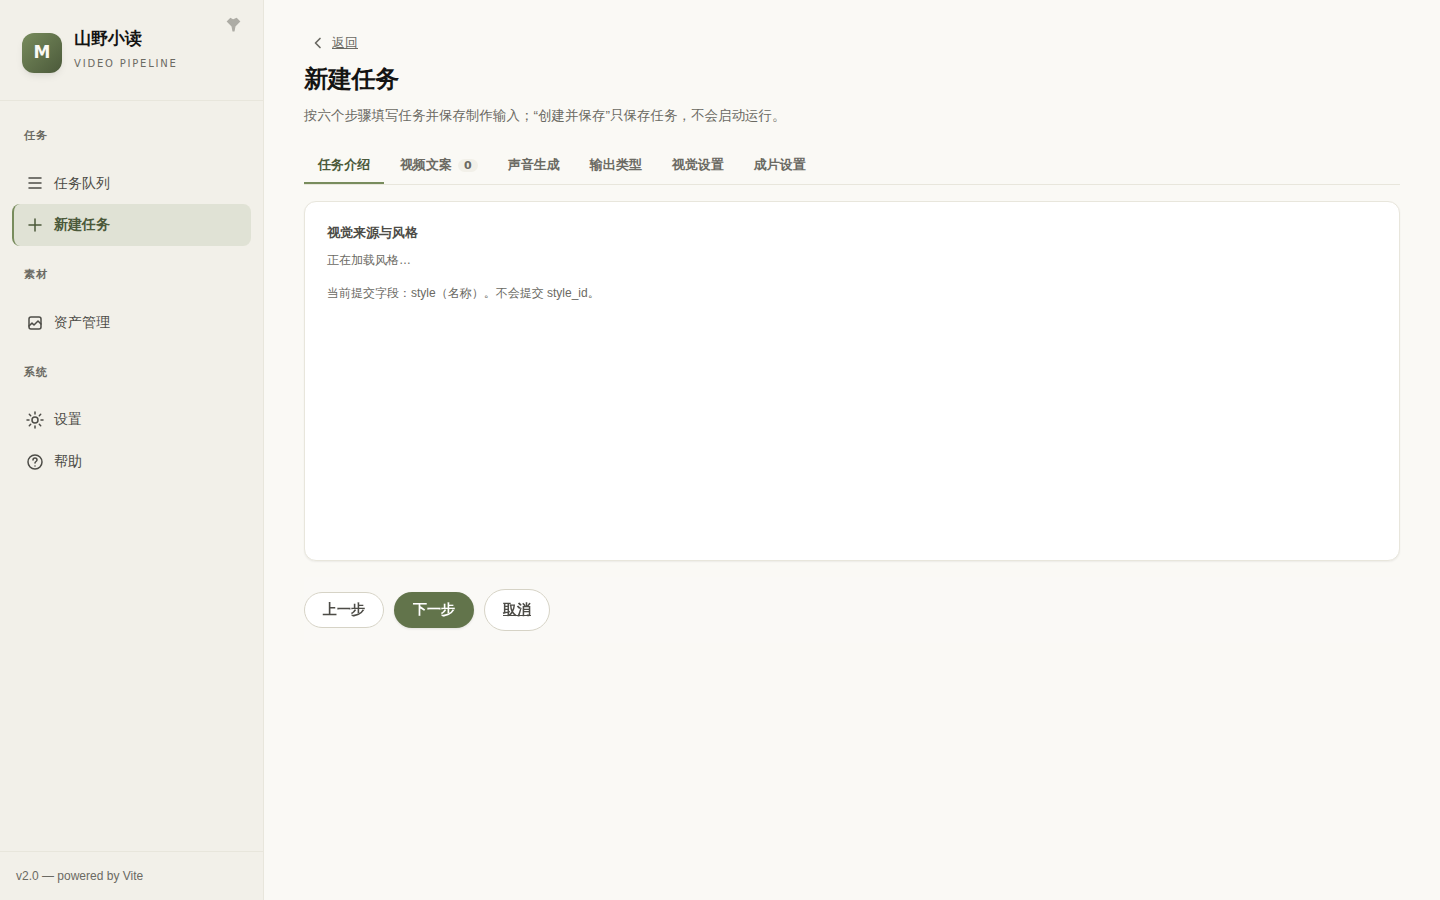
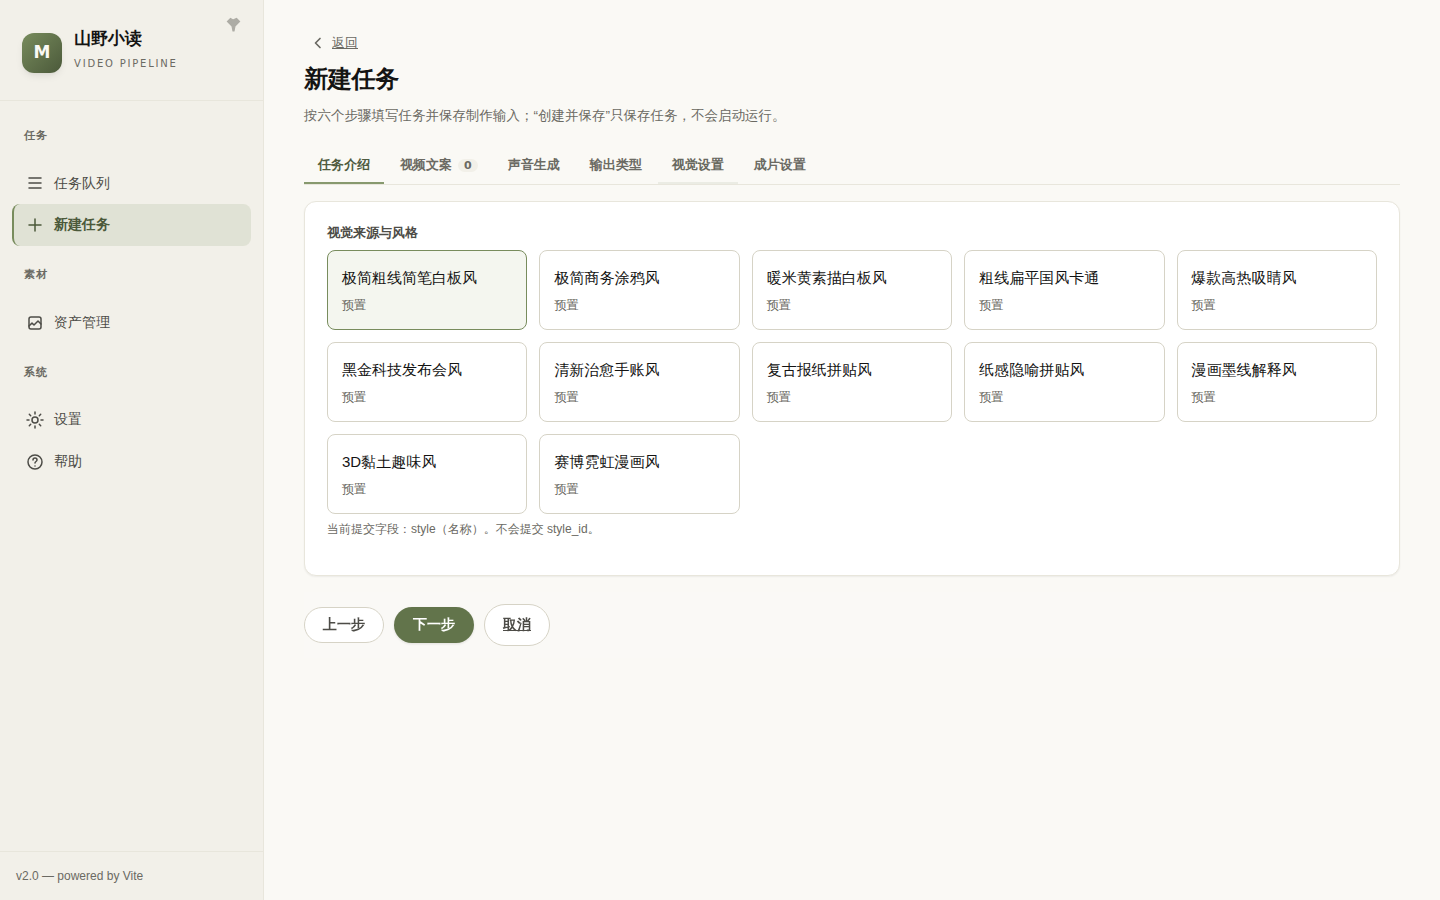
fix(web): wait for create task asset evidence states

diff --git a/web-v2/src/pages/CreateTaskPage.tsx b/web-v2/src/pages/CreateTaskPage.tsx
@@ -28,7 +28,7 @@ export function CreateTaskPage() {
   const [errors, setErrors] = useState<Record<string, string>>({}); const [submitting, setSubmitting] = useState(false)
   const [createdTask, setCreatedTask] = useState<{ task_id: string; run_id: string } | null>(null); const [createErr, setCreateErr] = useState<SafeError | null>(null); const [uploadErr, setUploadErr] = useState<SafeError | null>(null)
   const submittingRef = useRef(false); const mountedRef = useRef(true); useEffect(() => () => { mountedRef.current = false }, [])
-  useEffect(() => { fetchStyles({ status: 'active', engine: ENGINE }).then(r => { if (!mountedRef.current) return; const items = Array.isArray(r?.items) ? r.items : []; setStyles(items); setAssets(a => ({ ...a, styles: items.length ? 'success' : 'empty' })) }).catch(() => { if (mountedRef.current) setAssets(a => ({ ...a, styles: 'error' })) }); fetchVoices({ status: 'active' }).then(r => { if (!mountedRef.current) return; const items = Array.isArray(r?.items) ? r.items : []; setVoices(items); setAssets(a => ({ ...a, voices: items.length ? 'success' : 'empty' })) }).catch(() => { if (mountedRef.current) setAssets(a => ({ ...a, voices: 'error' })) }) }, [])
+  useEffect(() => { mountedRef.current = true; fetchStyles({ status: 'active', engine: ENGINE }).then(r => { if (!mountedRef.current) return; const items = Array.isArray(r?.items) ? r.items : []; setStyles(items); setAssets(a => ({ ...a, styles: items.length ? 'success' : 'empty' })) }).catch(() => { if (mountedRef.current) setAssets(a => ({ ...a, styles: 'error' })) }); fetchVoices({ status: 'active' }).then(r => { if (!mountedRef.current) return; const items = Array.isArray(r?.items) ? r.items : []; setVoices(items); setAssets(a => ({ ...a, voices: items.length ? 'success' : 'empty' })) }).catch(() => { if (mountedRef.current) setAssets(a => ({ ...a, voices: 'error' })) }) }, [])
   function validate() { const e: Record<string, string> = {}; if (!title.trim()) e.title = '请输入任务名称'; if (script.trim().length < 10) e.script = '文案不少于 10 字'; const min = integer(minChars), target = integer(targetChars), max = integer(maxChars); if (min === null || target === null || max === null) e.chars = '字数必须为整数'; else if (min < 1 || target < 1 || max > 500 || min > target || target > max) e.chars = '需满足 1 ≤ 最小 ≤ 目标 ≤ 最大 ≤ 500'; if (!referenceFile) e.reference = '首次保存必须上传参考音频文件'; if (penText.length > 12) e.penText = '笔身文字最长 12 字符'; return e }
   function validateTab(key: string) { const e = validate(); const fields = key === 'intro' ? ['title'] : key === 'script' ? ['script', 'chars'] : key === 'voice' ? ['reference'] : key === 'final' ? ['penText'] : []; return Object.fromEntries(fields.filter(k => e[k]).map(k => [k, e[k]])) }
   function goNext() { const e = validateTab(tab); if (Object.keys(e).length) { setErrors(e); return }; setErrors({}); const i = TABS.findIndex(t => t.key === tab); if (i < TABS.length - 1) setTab(TABS[i + 1].key) }

diff --git a/web-v2/tests/capture-evidence-assets.test.ts b/web-v2/tests/capture-evidence-assets.test.ts
@@ -1,0 +1,31 @@
+import { describe, expect, it, vi } from 'vitest'
+import { waitForAssetTerminal } from '../scripts/capture-parity-evidence-helpers.mjs'
+
+function fakePage({ loading = true, cards = 0, empty = false, error = false, reject = false } = {}) {
+  const waitFor = vi.fn(async ({ state }: { state: string }) => {
+    if (reject) throw new Error('Timeout 10ms exceeded')
+    if (state === 'hidden' && loading) return
+  })
+  const text = (value: string) => ({ waitFor, isVisible: vi.fn(async () => value.includes('暂无') ? empty : value.includes('失败') ? error : false) })
+  return { page: { getByText: vi.fn(text), locator: vi.fn(() => ({ count: vi.fn(async () => cards) })) }, waitFor }
+}
+
+describe('create-task asset evidence terminal guard', () => {
+  it('does not proceed while loading text is visible and waits for hidden', async () => {
+    const { page, waitFor } = fakePage({ loading: true, cards: 1 })
+    await expect(waitForAssetTerminal(page, 'voice', 100)).resolves.toMatchObject({ state: 'success' })
+    expect(waitFor).toHaveBeenCalledWith({ state: 'hidden', timeout: 100 })
+  })
+  it.each([
+    ['voice', { cards: 1 }, 'success'], ['voice', { empty: true }, 'empty'], ['voice', { error: true }, 'error'],
+    ['visual', { cards: 1 }, 'success'], ['visual', { empty: true }, 'empty'], ['visual', { error: true }, 'error'],
+  ] as const)('allows %s only after a real %s terminal state', async (asset, state, expected) => {
+    await expect(waitForAssetTerminal(fakePage(state).page, asset, 100)).resolves.toMatchObject({ state: expected })
+  })
+  it('fails non-zero-equivalent on terminal wait timeout', async () => {
+    await expect(waitForAssetTerminal(fakePage({ reject: true }).page, 'visual', 10)).rejects.toThrow('Timeout')
+  })
+  it('fails when loading ended without card, empty, or error terminal', async () => {
+    await expect(waitForAssetTerminal(fakePage({ loading: false }).page, 'voice', 100)).rejects.toThrow('no terminal state')
+  })
+})

diff --git a/docs/Mountain/29-ccf-create-task-asset-evidence-correction.md b/docs/Mountain/29-ccf-create-task-asset-evidence-correction.md
@@ -88,3 +88,13 @@ fix(web): wait for create task asset evidence states
 ```
 
 完成后申请 PM 复审，不自行宣布通过，不进入任务工作台功能。
+
+## CCF 实际交付报告（待 PM 复审）
+
+- 变更文件：`web-v2/scripts/capture-parity-evidence.mjs`、新增 `web-v2/scripts/capture-parity-evidence-helpers.mjs` 与 `web-v2/tests/capture-evidence-assets.test.ts`；另修复经真实 StrictMode 浏览器行为证明的 `CreateTaskPage` mounted ref 重置问题，使真实资产空态可达。
+- 资产保护测试：9 项通过，覆盖 loading 未结束不可截图、success/empty/error 终态、超时非零和无终态失败。
+- 门禁：`npm --prefix web-v2 run build` 通过；全量测试 `16 files / 347 tests passed`，无 React/act/unhandled warning。
+- 真实证据：后端隔离临时目录监听 8000，前端 `VITE_API_BASE_URL=/api/v1`、严格监听 5275，curl 使用 `--noproxy '*'`；contract checker 原始结论 `All contracts aligned against real backend ✓`；截图脚本原始结论 `Captured 21 real-backend screenshots; console errors/warnings: 0; failed API requests: 0`。
+- 六张新图均为 1440×900、非空，人工检查无 404/loading/error/空白；`create-voice.png` 为真实“暂无可用音色”终态，`create-visual.png` 为真实风格卡片终态。最新 SHA-256 已写入 evidence README。
+- cleanup：本轮后端、前端进程已终止，临时数据目录和日志已精确清理；未创建 Task、未填写用户真实文案、未上传音频。工作树 clean。
+- 本报告不宣布审核通过，申请 PM 复审。

diff --git a/docs/Mountain/webui-parity-evidence/README.md b/docs/Mountain/webui-parity-evidence/README.md
@@ -50,3 +50,18 @@
 e1af2457372218bcf6069e554e1cd06358b96dcfa256353c85777c5e56053f9d  tasks/create-visual.png
 8cdbf763aa823e08e2d08b8c9b13c5a5dfbc02188f68d8268278c7cf3acb18c4  tasks/create-voice.png
 ```
+
+### 资产终态等待纠偏（2026-09-02）
+
+`capture-parity-evidence.mjs` 现对新建任务声音/视觉页等待对应 loading 文案消失，并断言真实 success/empty/error 终态；相关行为测试覆盖终态与超时。使用真实后端 8000、Vite 代理端口 5275 和指定 Chromium 重跑后，21 张截图全部成功，console error/warning=0、failed API=0。新的资产截图显示真实空态：`create-voice.png` 为“暂无可用音色”，`create-visual.png` 为真实风格卡片；两图均无“正在加载”。
+
+最新六张 create 图 SHA-256：
+
+```text
+20c66939127ac8f4cf37a5edf89b6aad33f297a6ce2f79e5418c31377a590bc8  tasks/create-final.png
+27ac0835026bf0792d67217f1173f05c012281dcb4b47ee9ab6b180be7579c16  tasks/create-intro.png
+58b97ab6602af471b3b53ae194ec793011fc6b0d11c3b2936ee0a1f8d1132abf  tasks/create-script.png
+40d6d7e27400716a7faa106ecaec29dd767a67b870d48359bfa767f39ca7998b  tasks/create-validation.png
+6b8b936d8b4660960847d3e27bd49f35108073fbce8d2586bdea14481e77d2aa  tasks/create-visual.png
+6671147c338390d4d9602cea9e99af29123e3b03ac616d926763ece44b96d529  tasks/create-voice.png
+```
